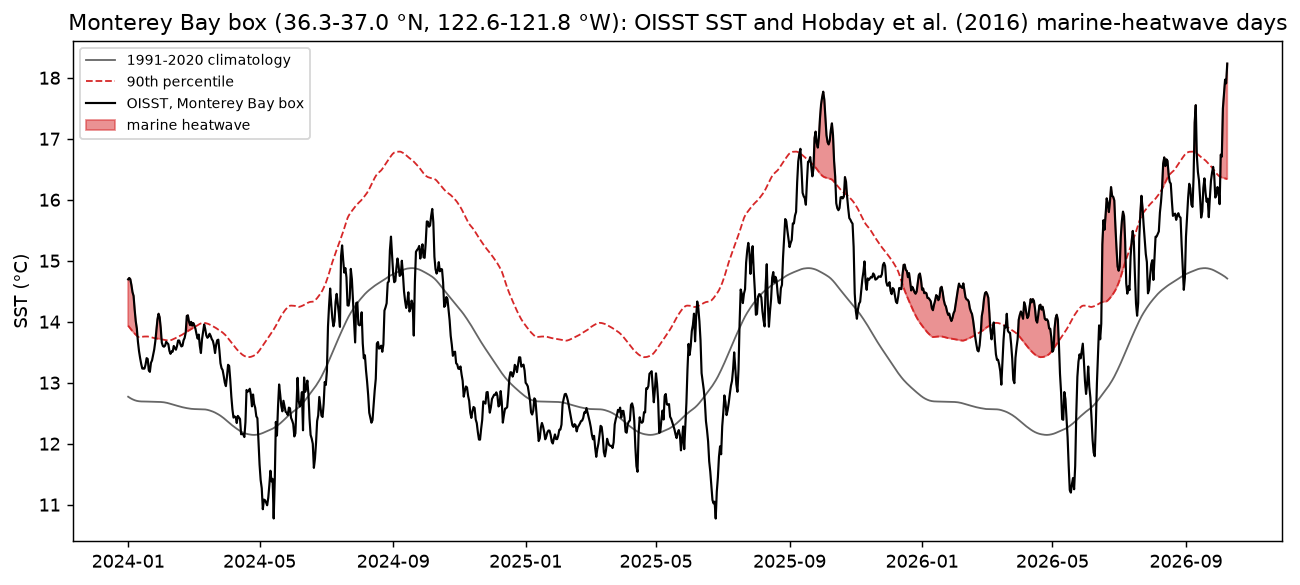
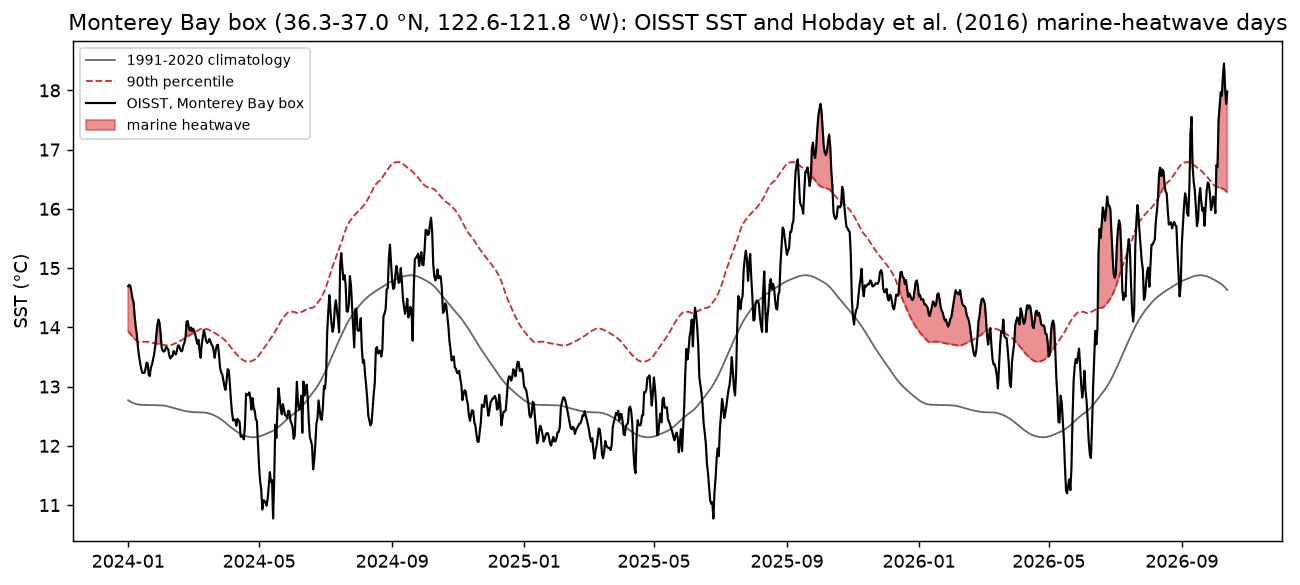
final

diff --git a/reports/El_Nino_2026/newsletter/El_Nino_public_Oct2026_wordpress.html b/reports/El_Nino_2026/newsletter/El_Nino_public_Oct2026_wordpress.html
@@ -1,13 +1,13 @@
 <!-- wp:heading {"level":3} -->
-<h3>A monthly newsletter from UCSC Ocean Sciences — October 2026</h3>
+<h3>A monthly newsletter from UCSC Ocean Sciences — October 2026 edition</h3>
 <!-- /wp:heading -->
 
 <!-- wp:paragraph -->
-<p><strong>The 2026–27 El Niño has arrived at our coast. In the first days of October a pulse of high sea level travelling up from the tropics reached Monterey Bay, the sea surface in the bay jumped to nearly 3 °C above normal, and NOAA now gives better-than-even odds that this becomes the strongest El Niño since records began. The underwater gliders off Monterey Bay show the upper ocean about 2.0 °C (3.7 °F) warmer than normal — above last spring's peak, and still climbing.</strong></p>
+<p><strong>The 2026–27 El Niño has arrived at our coast. In the first days of October a pulse of high sea level travelling up from the tropics reached Monterey Bay and lifted the water about 30 cm (12 in) above normal; the sea surface in the bay jumped to 3.4 °C above normal, and <a href="https://www.cpc.ncep.noaa.gov/products/analysis_monitoring/enso_advisory/ensodisc.shtml">NOAA now gives</a> better-than-even odds that this becomes the strongest El Niño since records began. The underwater gliders off Monterey Bay show the upper ocean about 2.1 °C (3.7 °F) warmer than normal — above last spring's peak, and still climbing.</strong></p>
 <!-- /wp:paragraph -->
 
 <!-- wp:paragraph -->
-<p>Since 2007, <a href="https://scripps.ucsd.edu/">Scripps Institution of Oceanography</a> has kept <a href="https://spraydata.ucsd.edu/about/spray-glider">robotic gliders</a> flying a <a href="https://spraydata.ucsd.edu/projects/cugn">line</a> that runs from Monterey Bay some 250 miles out to sea. Each glider dives down to 500 m and back up every few hours, measuring temperature, saltiness and oxygen. At UC Santa Cruz we analyse that stream of data each month to track how the 2026–27 El Niño is reaching our coast. Here is where things stand, one month on from our <a href="El_Nino_public_Sep2026.md">September edition</a>.</p>
+<p>Since 2007, <a href="https://scripps.ucsd.edu/">Scripps Institution of Oceanography</a> has kept <a href="https://spraydata.ucsd.edu/about/spray-glider">robotic gliders</a> flying a <a href="https://spraydata.ucsd.edu/projects/cugn">line</a> that runs from Monterey Bay some 250 miles out to sea. Each glider dives down to 500 m and back up every few hours, measuring temperature, saltiness and oxygen. At UC Santa Cruz we analyse that stream of data each month to track how the 2026–27 El Niño is reaching our coast. Here is where things stand, one month on from our <a href="https://ocean.ucsc.edu/1515-2/">September edition</a>.</p>
 <!-- /wp:paragraph -->
 
 <!-- wp:heading {"level":2} -->
@@ -17,13 +17,13 @@
 <!-- wp:list -->
 <ul class="wp-block-list">
 <!-- wp:list-item -->
-<li><strong>The warmth is past its spring peak — and it runs deep.</strong> The upper ocean off Monterey Bay has been <a href="https://spraydata.ucsd.edu/products/cugn-climatology">warmer than normal</a> without a break since July 2025. It peaked in April 2026 at 1.9 °C above normal, higher than the peak of the big 2015–16 El Niño (1.8 °C), eased a little over the summer, and has climbed again since September to 2.0 °C. Close to shore the glider's readings in late September and early October ran about 2.5 °C above normal. On the most recent full crossing of the line (10 August–10 September), the top 100 m averaged 1.2 °C above normal and the water from 100 m down to 500 m 0.4 °C — the warmth is pushing the ocean's density layers 26–44 m deeper than usual.</li>
+<li><strong>The warmth is past its spring peak — and it runs deep.</strong> The upper ocean off Monterey Bay has been <a href="https://spraydata.ucsd.edu/products/cugn-climatology">warmer than normal</a> without a break since July 2025. It peaked in April 2026 at 1.9 °C above normal, higher than the peak of the big 2015–16 El Niño (1.8 °C), eased a little over the summer, and has climbed again since September to 2.1 °C. Close to shore the glider's readings in late September and early October ran about 2.5 °C above normal. On the most recent full crossing of the line (10 August–10 September), the top 100 m averaged 1.2 °C above normal and the water from 100 m down to 500 m 0.4 °C — the warmth is pushing the ocean's density layers 26–43 m deeper than usual.</li>
 <!-- /wp:list-item -->
 <!-- wp:list-item -->
-<li><strong>The marine heatwave has flared again, and this time El Niño is part of it.</strong> Through the summer, <a href="https://oceanservice.noaa.gov/facts/upwelling.html">upwelling</a> — the wind-driven welling-up of cold water that the gliders <a href="https://spraydata.ucsd.edu/products/mean-upwelling-circulation">map along the whole coast</a> — kept a thin cool layer at the surface with the heat sitting just below it. As the upwelling season wound down in late September that lid came off. The glider logged its warmest reading of the year, 5.0 °C above normal at 10 m depth on 3 October, and satellites show the heat reaching the shore: in the week ending 9 October the sea surface in Monterey Bay itself averaged +2.8 °C above normal (it was only +0.4 °C in early September), with +2.0 °C just outside the bay and +2.0 °C along the whole 250-mile glider line, and since 3 October the bay has been in a "strong" marine heatwave, 3.5 °C above normal on 9 October. Monterey Bay has now spent 162 of the 527 days since May 2025 in <a href="https://marineheatwaves.org/">marine-heatwave</a> conditions. NOAA's <a href="https://www.integratedecosystemassessment.noaa.gov/regions/california-current/california-current-marine-heatwave-tracker-blobtracker">heatwave tracker</a> says that some of the warming off California at the end of September is likely, for the first time, "the result of more direct warming due to El Niño drivers".</li>
+<li><strong>The marine heatwave has flared again, and this time El Niño is part of it.</strong> Through the summer, <a href="https://oceanservice.noaa.gov/facts/upwelling.html">upwelling</a> — the wind-driven welling-up of cold water that the gliders <a href="https://spraydata.ucsd.edu/products/mean-upwelling-circulation">map along the whole coast</a> — kept a thin cool layer at the surface with the heat sitting just below it. As the upwelling season wound down in late September that lid came off. The glider logged its warmest reading of the year, 5.0 °C above normal at 10 m depth on 3 October, and satellites show the heat reaching the shore: in the week ending 13 October the sea surface in Monterey Bay itself averaged +3.4 °C above normal (it was only +0.4 °C in early September), with +2.2 °C just outside the bay and +2.3 °C along the whole 250-mile glider line, and since 3 October the bay has been in a "strong" marine heatwave, 3.8 °C above normal on 10 October. Monterey Bay has now spent 166 of the 531 days since May 2025 in <a href="https://marineheatwaves.org/">marine-heatwave</a> conditions. NOAA's <a href="https://www.integratedecosystemassessment.noaa.gov/regions/california-current/california-current-marine-heatwave-tracker-blobtracker">heatwave tracker</a> says that some of the warming off California at the end of September is likely, for the first time, "the result of more direct warming due to El Niño drivers".</li>
 <!-- /wp:list-item -->
 <!-- wp:list-item -->
-<li><strong>The sea-level pulse has arrived.</strong> The coastal Kelvin wave we flagged last month — a pulse of raised sea level travelling up the coast from the tropics — reached Central California in the first week of October (Figure 2). <a href="https://tidesandcurrents.noaa.gov/stationhome.html?id=9413450">Sea level at Monterey</a> ran about 9 cm above normal in August and 13 cm in September; over the past week it has averaged 27 cm (11 in) above normal and reached 41 cm (16 in) on 10 October, with San Francisco close behind. Those last figures are preliminary, and weather adds to any single day, but the step up is unmistakable — and oceanographers expect three or four more such pulses before spring.</li>
+<li><strong>The sea-level pulse has arrived.</strong> The coastal Kelvin wave we flagged last month — a pulse of raised sea level travelling up the coast from the tropics — reached Central California in the first week of October (Figure 2). <a href="https://tidesandcurrents.noaa.gov/stationhome.html?id=9413450">Sea level at Monterey</a> ran about 9 cm above normal in August and 13 cm in September; over the past week it has averaged 30 cm (12 in) above normal, with a storm-driven spike to 39 cm (16 in) on 11 October, and San Francisco close behind. Those last figures are preliminary, and weather adds to or subtracts from any single day, but the step up is unmistakable — and oceanographers expect three or four more such pulses before spring.</li>
 <!-- /wp:list-item -->
 <!-- wp:list-item -->
 <li><strong>The El Niño itself keeps strengthening.</strong> NOAA's <a href="https://www.cpc.ncep.noaa.gov/products/analysis_monitoring/ensostuff/ONI_v5.php">El Niño index</a> now stands at +2.2 °C, up from +1.4 °C a month ago, and the key tropical Pacific region reached +2.1 °C in September. In its <a href="https://www.cpc.ncep.noaa.gov/products/analysis_monitoring/enso_advisory/ensodisc.shtml">8 October update</a> NOAA puts the chance of a strong-to-very-strong event lasting through March 2027 at 83%, and the chance that October–December is the strongest since records began in 1950 at 83%.</li>
@@ -32,7 +32,7 @@
 <!-- /wp:list -->
 
 <!-- wp:image {"sizeSlug":"large"} -->
-<figure class="wp-block-image size-large"><img src="MEDIA-LIBRARY-URL/newsletter_fig1_past_events_Oct2026.png" alt="Line chart of how far above normal the upper ocean off Monterey Bay was, month by month from July to June, during three warm periods. The red line for this year starts at about 1.4 °C above normal in July and climbs to about 2.0 °C by October, higher than either of the others at the same point in the year. Pink shading marks warmer than normal, blue cooler."/></figure>
+<figure class="wp-block-image size-large"><img src="MEDIA-LIBRARY-URL/newsletter_fig1_past_events_Oct2026.png" alt="Line chart of how far above normal the upper ocean off Monterey Bay was, month by month from July to June, during three warm periods. The red line for this year starts at about 1.4 °C above normal in July and climbs to about 2.1 °C by October, higher than either of the others at the same point in the year. Pink shading marks warmer than normal, blue cooler."/></figure>
 <!-- /wp:image -->
 
 <!-- wp:paragraph -->

diff --git a/reports/El_Nino_2026/scripts/make_newsletter.py b/reports/El_Nino_2026/scripts/make_newsletter.py
@@ -306,11 +306,12 @@ def build_markdown(stats, o2, date, fig1_name, fig2_name, sst, sl, cpc, use_cove
 
     md = f"""# El Niño, Monterey Bay, and our nearby ocean
 
-### A monthly newsletter from UCSC Ocean Sciences — {date:%B %Y}
+### A monthly newsletter from UCSC Ocean Sciences — {date:%B %Y} edition
 
 **The 2026–27 El Niño has arrived at our coast. In the first days of October a
-pulse of high sea level travelling up from the tropics reached Monterey Bay, the
-sea surface in the bay jumped to nearly {sst_box:.0f} °C above normal, and NOAA now gives
+pulse of high sea level travelling up from the tropics reached Monterey Bay and
+lifted the water about {sl_week:.0f} cm ({cm2in(sl_week):.0f} in) above normal; the
+sea surface in the bay jumped to {sst_box:.1f} °C above normal, and [NOAA now gives](https://www.cpc.ncep.noaa.gov/products/analysis_monitoring/enso_advisory/ensodisc.shtml)
 better-than-even odds that this becomes the strongest El Niño since records began.
 The underwater gliders off Monterey Bay show the upper ocean about {now:.1f} °C
 ({c2f(now):.1f} °F) warmer than normal — above last spring's peak, and still climbing.**
@@ -322,7 +323,7 @@ kept [robotic gliders](https://spraydata.ucsd.edu/about/spray-glider) flying a
 measuring temperature, saltiness and oxygen. At UC Santa Cruz we analyse that
 stream of data each month to track how the 2026–27 El Niño is reaching our coast.
 Here is where things stand, one month on from our [September
-edition](El_Nino_public_Sep2026.md).
+edition](https://ocean.ucsc.edu/1515-2/).
 
 ## What the gliders see
 
@@ -357,11 +358,11 @@ edition](El_Nino_public_Sep2026.md).
   reached Central California in the first week of October (Figure 2). [Sea level
   at Monterey](https://tidesandcurrents.noaa.gov/stationhome.html?id=9413450) ran
   about {mry['aug_mean_cm']:.0f} cm above normal in August and {mry['sep_mean_cm']:.0f} cm in September; over the past
-  week it has averaged {sl_week:.0f} cm ({cm2in(sl_week):.0f} in) above normal and reached {sl_max:.0f} cm
-  ({cm2in(sl_max):.0f} in) on {sl_max_day:%-d %B}, with San Francisco close behind. Those last
-  figures are preliminary, and weather adds to any single day, but the step up is
-  unmistakable — and oceanographers expect three or four more such pulses before
-  spring.
+  week it has averaged {sl_week:.0f} cm ({cm2in(sl_week):.0f} in) above normal, with a storm-driven spike
+  to {sl_max:.0f} cm ({cm2in(sl_max):.0f} in) on {sl_max_day:%-d %B}, and San Francisco close behind. Those last
+  figures are preliminary, and weather adds to or subtracts from any single day, but
+  the step up is unmistakable — and oceanographers expect three or four more such
+  pulses before spring.
 - **The El Niño itself keeps strengthening.** NOAA's [El Niño
   index](https://www.cpc.ncep.noaa.gov/products/analysis_monitoring/ensostuff/ONI_v5.php)
   now stands at +{oni:.1f} °C, up from +1.4 °C a month ago, and the key tropical Pacific

diff --git a/cugn/oisst.py b/cugn/oisst.py
@@ -640,9 +640,18 @@ def update(start_year=FIRST_YEAR, end_year=None, verbose=True):
     today = _today_utc()
     if end_year is None:
         end_year = today.year
-    agg_last = aggregate_last_time()
-    if verbose:
-        print(f'[oisst] ERDDAP aggregate ends {agg_last:%Y-%m-%d}; today {today:%Y-%m-%d}',
+    try:
+        agg_last = aggregate_last_time()
+        if verbose:
+            print(f'[oisst] ERDDAP aggregate ends {agg_last:%Y-%m-%d}; today {today:%Y-%m-%d}',
+                  flush=True)
+    except Exception as err:
+        # The CoastWatch aggregate disappeared in October 2026 ("unknown
+        # datasetID").  Fall back to NCEI daily files only: a date before every
+        # year skips the ERDDAP part in download_year, and only files that are
+        # incomplete or hold preliminary days are rebuilt.
+        agg_last = pd.Timestamp('1900-01-01')
+        print(f'[oisst] ERDDAP aggregate unavailable ({err}); using NCEI daily files only',
               flush=True)
     paths = []
     for year in range(start_year, end_year + 1):

diff --git a/reports/El_Nino_2026/scripts/make_newsletter_sst.py b/reports/El_Nino_2026/scripts/make_newsletter_sst.py
@@ -201,7 +201,17 @@ def aggregate_last(max_age_hours=12.):
         age = (pd.Timestamp.utcnow().tz_localize(None) - pd.Timestamp(rec['queried'])) / pd.Timedelta('1h')
         if age < max_age_hours:
             return pd.Timestamp(rec['last'])
-    last = oisst.aggregate_last_time()
+    try:
+        last = oisst.aggregate_last_time()
+    except Exception as err:
+        # The aggregate vanished from CoastWatch in October 2026.  Keep using the
+        # last answer we got (the decade chunks on disk end there) and let
+        # fetch_tail fill the rest from NCEI daily files.
+        if os.path.exists(path):
+            print(f'[sst] ERDDAP aggregate unavailable ({err}); keeping the cached end '
+                  f'{rec["last"][:10]} and using NCEI for the rest', flush=True)
+            return pd.Timestamp(rec['last'])
+        raise
     os.makedirs(CACHE_DIR, exist_ok=True)
     with open(path, 'w') as fh:
         json.dump(dict(last=str(last), queried=str(pd.Timestamp.utcnow().tz_localize(None))), fh)

diff --git a/reports/El_Nino_2026/newsletter/El_Nino_public_Oct2026.md b/reports/El_Nino_2026/newsletter/El_Nino_public_Oct2026.md
@@ -1,12 +1,13 @@
 # El Niño, Monterey Bay, and our nearby ocean
 
-### A monthly newsletter from UCSC Ocean Sciences — October 2026
+### A monthly newsletter from UCSC Ocean Sciences — October 2026 edition
 
 **The 2026–27 El Niño has arrived at our coast. In the first days of October a
-pulse of high sea level travelling up from the tropics reached Monterey Bay, the
-sea surface in the bay jumped to nearly 3 °C above normal, and NOAA now gives
+pulse of high sea level travelling up from the tropics reached Monterey Bay and
+lifted the water about 30 cm (12 in) above normal; the
+sea surface in the bay jumped to 3.4 °C above normal, and [NOAA now gives](https://www.cpc.ncep.noaa.gov/products/analysis_monitoring/enso_advisory/ensodisc.shtml)
 better-than-even odds that this becomes the strongest El Niño since records began.
-The underwater gliders off Monterey Bay show the upper ocean about 2.0 °C
+The underwater gliders off Monterey Bay show the upper ocean about 2.1 °C
 (3.7 °F) warmer than normal — above last spring's peak, and still climbing.**
 
 Since 2007, [Scripps Institution of Oceanography](https://scripps.ucsd.edu/) has
@@ -16,7 +17,7 @@ kept [robotic gliders](https://spraydata.ucsd.edu/about/spray-glider) flying a
 measuring temperature, saltiness and oxygen. At UC Santa Cruz we analyse that
 stream of data each month to track how the 2026–27 El Niño is reaching our coast.
 Here is where things stand, one month on from our [September
-edition](El_Nino_public_Sep2026.md).
+edition](https://ocean.ucsc.edu/1515-2/).
 
 ## What the gliders see
 
@@ -25,12 +26,12 @@ edition](El_Nino_public_Sep2026.md).
   normal](https://spraydata.ucsd.edu/products/cugn-climatology) without a break
   since July 2025. It peaked in April 2026 at 1.9 °C above normal, higher than
   the peak of the big 2015–16 El Niño (1.8 °C), eased a little over the
-  summer, and has climbed again since September to 2.0 °C. Close to shore the
+  summer, and has climbed again since September to 2.1 °C. Close to shore the
   glider's readings in late September and early October ran about 2.5 °C above
   normal. On the most recent full crossing of the line (10 August–10 September),
   the top 100 m averaged 1.2 °C above normal and the water from 100 m
   down to 500 m 0.4 °C — the warmth is pushing the ocean's density layers
-  26–44 m deeper than usual.
+  26–43 m deeper than usual.
 - **The marine heatwave has flared again, and this time El Niño is part of it.**
   Through the summer, [upwelling](https://oceanservice.noaa.gov/facts/upwelling.html)
   — the wind-driven welling-up of cold water that the gliders
@@ -39,10 +40,10 @@ edition](El_Nino_public_Sep2026.md).
   the upwelling season wound down in late September that lid came off. The glider
   logged its warmest reading of the year, 5.0 °C above normal at 10 m depth
   on 3 October, and satellites show the heat reaching the shore: in the week ending
-  9 October the sea surface in Monterey Bay itself averaged +2.8 °C above normal
-  (it was only +0.4 °C in early September), with +2.0 °C just outside the bay and
-  +2.0 °C along the whole 250-mile glider line, and since 3 October the bay has been in a "strong" marine heatwave, 3.5 °C above normal on 9 October. Monterey Bay has
-  now spent 162 of the 527 days since May 2025 in [marine-heatwave](https://marineheatwaves.org/)
+  13 October the sea surface in Monterey Bay itself averaged +3.4 °C above normal
+  (it was only +0.4 °C in early September), with +2.2 °C just outside the bay and
+  +2.3 °C along the whole 250-mile glider line, and since 3 October the bay has been in a "strong" marine heatwave, 3.8 °C above normal on 10 October. Monterey Bay has
+  now spent 166 of the 531 days since May 2025 in [marine-heatwave](https://marineheatwaves.org/)
   conditions. NOAA's [heatwave tracker](https://www.integratedecosystemassessment.noaa.gov/regions/california-current/california-current-marine-heatwave-tracker-blobtracker)
   says that some of the warming off California at the end of September is likely,
   for the first time, "the result of more direct warming due to El Niño drivers".
@@ -51,11 +52,11 @@ edition](El_Nino_public_Sep2026.md).
   reached Central California in the first week of October (Figure 2). [Sea level
   at Monterey](https://tidesandcurrents.noaa.gov/stationhome.html?id=9413450) ran
   about 9 cm above normal in August and 13 cm in September; over the past
-  week it has averaged 27 cm (11 in) above normal and reached 41 cm
-  (16 in) on 10 October, with San Francisco close behind. Those last
-  figures are preliminary, and weather adds to any single day, but the step up is
-  unmistakable — and oceanographers expect three or four more such pulses before
-  spring.
+  week it has averaged 30 cm (12 in) above normal, with a storm-driven spike
+  to 39 cm (16 in) on 11 October, and San Francisco close behind. Those last
+  figures are preliminary, and weather adds to or subtracts from any single day, but
+  the step up is unmistakable — and oceanographers expect three or four more such
+  pulses before spring.
 - **The El Niño itself keeps strengthening.** NOAA's [El Niño
   index](https://www.cpc.ncep.noaa.gov/products/analysis_monitoring/ensostuff/ONI_v5.php)
   now stands at +2.2 °C, up from +1.4 °C a month ago, and the key tropical Pacific
@@ -64,7 +65,7 @@ edition](El_Nino_public_Sep2026.md).
   March 2027 at 83%, and the chance that October–December is the
   strongest since records began in 1950 at 83%.
 
-![Line chart of how far above normal the upper ocean off Monterey Bay was, month by month from July to June, during three warm periods. The red line for this year starts at about 1.4 °C above normal in July and climbs to about 2.0 °C by October, higher than either of the others at the same point in the year. Pink shading marks warmer than normal, blue cooler.](figs/newsletter_fig1_past_events_Oct2026.png)
+![Line chart of how far above normal the upper ocean off Monterey Bay was, month by month from July to June, during three warm periods. The red line for this year starts at about 1.4 °C above normal in July and climbs to about 2.1 °C by October, higher than either of the others at the same point in the year. Pink shading marks warmer than normal, blue cooler.](figs/newsletter_fig1_past_events_Oct2026.png)
 
 **Figure 1.** The excess warmth in the upper ocean off Monterey Bay during two previous warm
 periods (yellow, orange) and this year (red), lined up by month starting in July.

diff --git a/reports/El_Nino_2026/newsletter/README.md b/reports/El_Nino_2026/newsletter/README.md
@@ -1,12 +1,13 @@
 # El Niño, Monterey Bay, and our nearby ocean
 
-### A monthly newsletter from UCSC Ocean Sciences — October 2026
+### A monthly newsletter from UCSC Ocean Sciences — October 2026 edition
 
 **The 2026–27 El Niño has arrived at our coast. In the first days of October a
-pulse of high sea level travelling up from the tropics reached Monterey Bay, the
-sea surface in the bay jumped to nearly 3 °C above normal, and NOAA now gives
+pulse of high sea level travelling up from the tropics reached Monterey Bay and
+lifted the water about 30 cm (12 in) above normal; the
+sea surface in the bay jumped to 3.4 °C above normal, and [NOAA now gives](https://www.cpc.ncep.noaa.gov/products/analysis_monitoring/enso_advisory/ensodisc.shtml)
 better-than-even odds that this becomes the strongest El Niño since records began.
-The underwater gliders off Monterey Bay show the upper ocean about 2.0 °C
+The underwater gliders off Monterey Bay show the upper ocean about 2.1 °C
 (3.7 °F) warmer than normal — above last spring's peak, and still climbing.**
 
 Since 2007, [Scripps Institution of Oceanography](https://scripps.ucsd.edu/) has
@@ -16,7 +17,7 @@ kept [robotic gliders](https://spraydata.ucsd.edu/about/spray-glider) flying a
 measuring temperature, saltiness and oxygen. At UC Santa Cruz we analyse that
 stream of data each month to track how the 2026–27 El Niño is reaching our coast.
 Here is where things stand, one month on from our [September
-edition](El_Nino_public_Sep2026.md).
+edition](https://ocean.ucsc.edu/1515-2/).
 
 ## What the gliders see
 
@@ -25,12 +26,12 @@ edition](El_Nino_public_Sep2026.md).
   normal](https://spraydata.ucsd.edu/products/cugn-climatology) without a break
   since July 2025. It peaked in April 2026 at 1.9 °C above normal, higher than
   the peak of the big 2015–16 El Niño (1.8 °C), eased a little over the
-  summer, and has climbed again since September to 2.0 °C. Close to shore the
+  summer, and has climbed again since September to 2.1 °C. Close to shore the
   glider's readings in late September and early October ran about 2.5 °C above
   normal. On the most recent full crossing of the line (10 August–10 September),
   the top 100 m averaged 1.2 °C above normal and the water from 100 m
   down to 500 m 0.4 °C — the warmth is pushing the ocean's density layers
-  26–44 m deeper than usual.
+  26–43 m deeper than usual.
 - **The marine heatwave has flared again, and this time El Niño is part of it.**
   Through the summer, [upwelling](https://oceanservice.noaa.gov/facts/upwelling.html)
   — the wind-driven welling-up of cold water that the gliders
@@ -39,10 +40,10 @@ edition](El_Nino_public_Sep2026.md).
   the upwelling season wound down in late September that lid came off. The glider
   logged its warmest reading of the year, 5.0 °C above normal at 10 m depth
   on 3 October, and satellites show the heat reaching the shore: in the week ending
-  9 October the sea surface in Monterey Bay itself averaged +2.8 °C above normal
-  (it was only +0.4 °C in early September), with +2.0 °C just outside the bay and
-  +2.0 °C along the whole 250-mile glider line, and since 3 October the bay has been in a "strong" marine heatwave, 3.5 °C above normal on 9 October. Monterey Bay has
-  now spent 162 of the 527 days since May 2025 in [marine-heatwave](https://marineheatwaves.org/)
+  13 October the sea surface in Monterey Bay itself averaged +3.4 °C above normal
+  (it was only +0.4 °C in early September), with +2.2 °C just outside the bay and
+  +2.3 °C along the whole 250-mile glider line, and since 3 October the bay has been in a "strong" marine heatwave, 3.8 °C above normal on 10 October. Monterey Bay has
+  now spent 166 of the 531 days since May 2025 in [marine-heatwave](https://marineheatwaves.org/)
   conditions. NOAA's [heatwave tracker](https://www.integratedecosystemassessment.noaa.gov/regions/california-current/california-current-marine-heatwave-tracker-blobtracker)
   says that some of the warming off California at the end of September is likely,
   for the first time, "the result of more direct warming due to El Niño drivers".
@@ -51,11 +52,11 @@ edition](El_Nino_public_Sep2026.md).
   reached Central California in the first week of October (Figure 2). [Sea level
   at Monterey](https://tidesandcurrents.noaa.gov/stationhome.html?id=9413450) ran
   about 9 cm above normal in August and 13 cm in September; over the past
-  week it has averaged 27 cm (11 in) above normal and reached 41 cm
-  (16 in) on 10 October, with San Francisco close behind. Those last
-  figures are preliminary, and weather adds to any single day, but the step up is
-  unmistakable — and oceanographers expect three or four more such pulses before
-  spring.
+  week it has averaged 30 cm (12 in) above normal, with a storm-driven spike
+  to 39 cm (16 in) on 11 October, and San Francisco close behind. Those last
+  figures are preliminary, and weather adds to or subtracts from any single day, but
+  the step up is unmistakable — and oceanographers expect three or four more such
+  pulses before spring.
 - **The El Niño itself keeps strengthening.** NOAA's [El Niño
   index](https://www.cpc.ncep.noaa.gov/products/analysis_monitoring/ensostuff/ONI_v5.php)
   now stands at +2.2 °C, up from +1.4 °C a month ago, and the key tropical Pacific
@@ -64,7 +65,7 @@ edition](El_Nino_public_Sep2026.md).
   March 2027 at 83%, and the chance that October–December is the
   strongest since records began in 1950 at 83%.
 
-![Line chart of how far above normal the upper ocean off Monterey Bay was, month by month from July to June, during three warm periods. The red line for this year starts at about 1.4 °C above normal in July and climbs to about 2.0 °C by October, higher than either of the others at the same point in the year. Pink shading marks warmer than normal, blue cooler.](figs/newsletter_fig1_past_events_Oct2026.png)
+![Line chart of how far above normal the upper ocean off Monterey Bay was, month by month from July to June, during three warm periods. The red line for this year starts at about 1.4 °C above normal in July and climbs to about 2.1 °C by October, higher than either of the others at the same point in the year. Pink shading marks warmer than normal, blue cooler.](figs/newsletter_fig1_past_events_Oct2026.png)
 
 **Figure 1.** The excess warmth in the upper ocean off Monterey Bay during two previous warm
 periods (yellow, orange) and this year (red), lined up by month starting in July.

diff --git a/reports/El_Nino_2026/prompts/elnino_oct2026_prompts.md b/reports/El_Nino_2026/prompts/elnino_oct2026_prompts.md
@@ -53,6 +53,11 @@ If you need to run Python code, please use the `ocean14` conda environment.
 If you have any questions, ask them in the Q&A section.  
 Use Opus 5.5.  Log your work.
 
+2. It is now October 15th.  Please update the data, if possible.
+And also the figures and text for the Newsletter. 
+We will then freeze this version as is.
+Use Opus 5.5.  Log your work.
+
 ### Newsletter
 
 1. Read all the files in Context.  And also my answers in the Q&A section.  
@@ -68,6 +73,8 @@ Read my answers in the Q&A section and make edits accordingly.
 Also, I made some edits by hand to the Markdown file.  Keep those.  
 Finally, please make sure the HTML file is in sync with the Markdown file.
 Use Fable if you can. Log your work.
+
+2. Add the headline result to the opening summary -- the increase in sea level height in the bay.
 
 ## Q&A
 
@@ -364,3 +371,82 @@ typed into a dated dict so a stale copy is at least visible.
 template (rather than against the previous output) is the reliable way to find
 every hand edit; here it was one sentence, and it would have been silently
 re-inserted by the next rebuild had it not been moved into the template.
+
+### 2026-10-15 (Data update 2: everything refreshed to 15 Oct, figures and newsletter rebuilt, version to freeze)
+
+Ran on Fable 5.1 again (the prompt says Opus 5.5; the model cannot be switched
+from inside a session). No new hand edits were found: a fresh render of the
+template matched `El_Nino_public_Oct2026.md` line for line before anything was
+rebuilt.
+
+**Data (all 2026-10-15).**
+
+- Gliders: SprayData `binnedCUGN66` still ends 2026-06-09 (checked live; the
+  10 Oct dump is reused, no re-download). Real-time: sp025 unchanged (ended
+  30 Sep), **sp055 extended to 15 Oct**; 1,076 real-time profiles (was 1,035).
+  Products rebuilt (`build_products.py`, build_date 2026-10-15): index last
+  **+2.07 degC** at the 13 Oct bin (was +2.04), rank 6 of 697; DO index +2.26;
+  latest complete transect still 10 Aug-10 Sep.
+- Indices: ONI unchanged (JAS +2.16); SCTI now to 19 Aug (+2.00 10-day, +1.94
+  monthly); CUTI/BEUTI to 9 Oct; Monterey monthly to Aug (+8.9 cm), SF to Sep
+  (+11.0 cm); hourly sea level to 15 Oct 11:00 (Monterey daily mean 0.305 m
+  on 14 Oct).
+- OISST: **the CoastWatch ERDDAP aggregate `ncdcOisst21Agg_LonPM180` is gone**
+  (server up, "Currently unknown datasetID", 404), which killed
+  `python -m cugn.oisst` and would have left the newsletter with stale
+  satellite numbers. Both paths now fall back to NCEI daily files:
+  `cugn.oisst.update()` sets `agg_last` to 1900 so `download_year` skips the
+  ERDDAP part and fills from NCEI (it rewrote all 36 year files on the way,
+  reusing the finals on disk; archive now 1991-01-01..2026-10-13, 13,070 days,
+  14 preliminary), and `make_newsletter_sst.aggregate_last()` keeps its cached
+  answer (26 Sep) when the query fails so `fetch_tail` covers the rest from
+  NCEI (zoom archive to 13 Oct; NCEI had no file yet for 14 Oct). If the
+  aggregate reappears under a new id, `cugn.oisst.ERDDAP_BASE` is the one line
+  to change.
+
+**Figures and text.** Report figures rebuilt to `figs/2026_10/` with
+`--date 2026-10-15` (stats.json now: OISST 7-day map to 13 Oct, Monterey box
+**+3.36**, line +2.29; MHW Category 2 since 3 Oct, max +3.76 on 10 Oct,
+**166 of 531** heatwave days; oxygen on sigma 25.5 -34.9; isopycnals 26-43 m
+deep). Newsletter rebuilt with `--date 2026-10-15`: Fig. 1 to the 13 Oct bin
+(+2.07, "we are here" on it), Fig. 2 sea level to 14 Oct (7-day mean **+30.4
+cm**, spike **+39.4 cm on 11 Oct** -- the verified data replaced the
+preliminary 41.3 cm of 10 Oct, and the gauge fell back to ~20 cm by 14 Oct, so
+the text now calls it "a storm-driven spike" on top of the pulse), satellite
+numbers to 13 Oct (bay **+3.4**, "jumped to 3.4 degC" replaces "nearly 3").
+CPC dict unchanged (8 Oct discussion is still current). README, the dated
+Markdown and the WordPress HTML are all from the same render; 21 links, all
+resolve (UCSC News 403 to scripts as before). The two Monterey Bay Fig. 2
+captions and the alt texts were checked against the new numbers.
+
+**Push.** `push_data_to_aiocean.sh` run (dump skipped by the data hash; products,
+CCS files and the 36 rewritten OISST files uploaded): 449 MiB of glider
+products, 4.8 MiB of CCS files and 339 MiB of OISST; `rclone check` found
+0 differences in all three trees.
+
+**Learned.** External data services disappear without notice: the aggregate
+that the whole OISST pipeline was built around vanished between 12 and 15 Oct.
+Having the NCEI daily route already written (for the days past the aggregate)
+made the fix a fallback rather than a rewrite.
+
+### 2026-10-15b (Edits 2: sea-level rise added to the opening summary; three hand edits folded in)
+
+**The ask.** The opening bold paragraph now carries the headline sea-level
+number: "... reached Monterey Bay and lifted the water about **30 cm (12 in)**
+above normal; the sea surface in the bay jumped to 3.4 degC above normal ...".
+The figure is the 7-day mean to 14 Oct from the Fig. 2 sidecar
+(`sl_week`), so it moves with the data like the rest of the paragraph.
+
+**Hand edits found and kept.** A fresh render of the template against the
+Markdown on disk showed three edits made since the 15 Oct rebuild, all moved
+into the template so they survive future builds:
+
+- subtitle "October 2026 **edition**";
+- "[NOAA now gives](... enso_advisory/ensodisc.shtml)" linked in the headline;
+- the September-edition link now points at the public post
+  (https://ocean.ucsc.edu/1515-2/) rather than the repository Markdown.
+
+**Sync.** Rebuilt with `make_newsletter.py --date 2026-10-15 --no-figs`;
+`README.md` and `El_Nino_public_Oct2026.md` are identical and the WordPress
+HTML carries the new sentence, the "edition" subtitle and the ocean.ucsc.edu
+link. Figures untouched.
